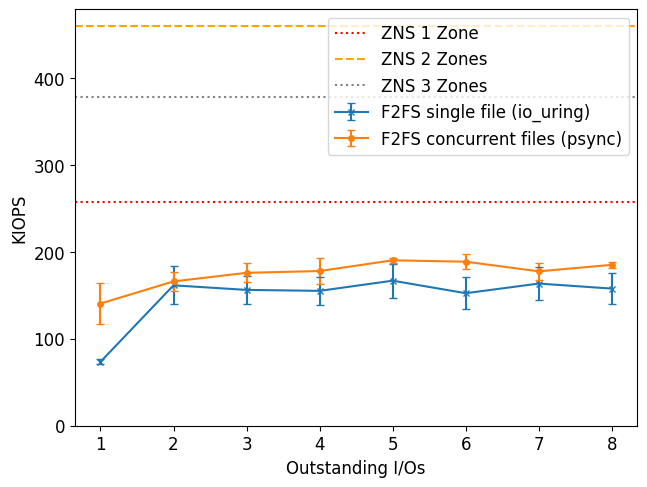
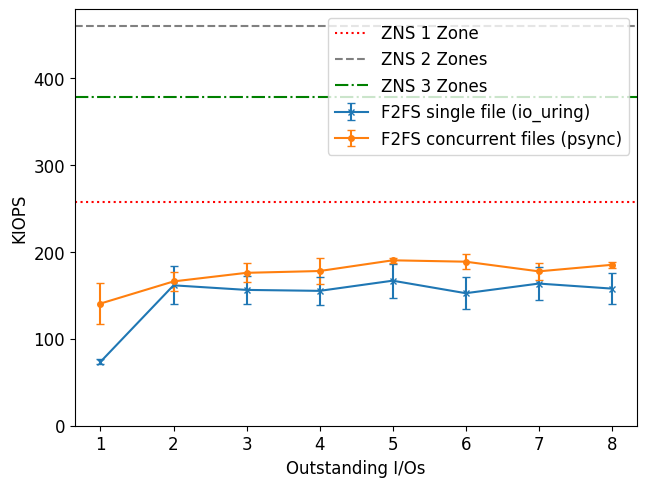
Data update + figs

diff --git a/workloads/f2fs-single_stream/plot.py b/workloads/f2fs-single_stream/plot.py
@@ -64,8 +64,8 @@ def plot_throughput():
 
     # Plotting horizontal lines for max throughput on ZNS
     plt.axhline(y = 257364.462305/1000, color = 'r', linestyle = ':', label = "ZNS 1 Zone")
-    plt.axhline(y = 459717.450472/1000, color = 'orange', linestyle = 'dashed', label = "ZNS 2 Zones")
-    plt.axhline(y = 378353.052926/1000, color = 'gray', linestyle = 'dotted', label = "ZNS 3 Zones")
+    plt.axhline(y = 459717.450472/1000, color = 'gray', linestyle = 'dashed', label = "ZNS 2 Zones")
+    plt.axhline(y = 378353.052926/1000, color = 'green', linestyle = 'dashdot', label = "ZNS 3 Zones")
 
     fig.tight_layout()
     # ax.grid(which='major', linestyle='dashed', linewidth='1')
